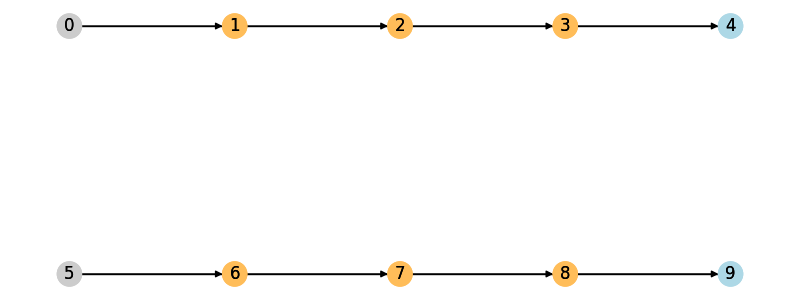
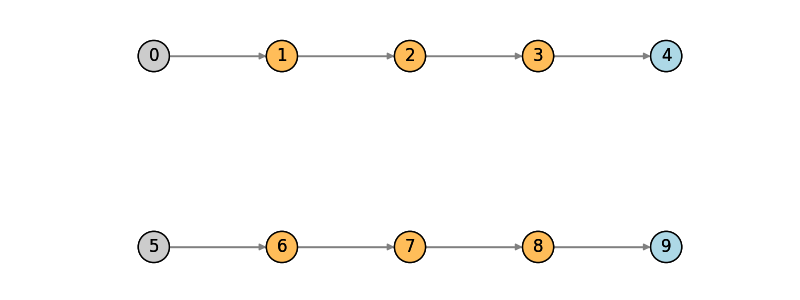
update draw function

Changed region(s): [[0.0625, 0.03, 0.9375, 0.24], [0.0625, 0.75, 0.9375, 0.96]]

diff --git a/mentpy/states/mbqcstate.py b/mentpy/states/mbqcstate.py
@@ -8,6 +8,7 @@ from typing import Optional, List, Tuple, Callable, Union, Any
 import numpy as np
 import scipy as scp
 import networkx as nx
+import matplotlib.pyplot as plt
 
 from mentpy.states.graphstate import GraphState
 from mentpy.states.flow import find_gflow, find_cflow, find_flow, check_if_flow
@@ -17,8 +18,9 @@ __all__ = ["MBQCState", "draw", "merge", "hstack", "vstack"]
 
 class MBQCState:
     r"""The MBQCGraph class that deals with operations and manipulations of graph states
-    Args
-    ----
+
+    Parameters
+    ----------
     graph: mp.GraphState
         The graph state of the MBQC state.
     input_nodes: list
@@ -359,17 +361,34 @@ def draw(state: Union[MBQCState, GraphState], fix_wires=None, **kwargs):
             node_colors[i] = "#FFBD59"
 
     # options = {'node_color': '#FFBD59'}
-    options = {"node_color": [node_colors[node] for node in state.graph.nodes()]}
+    options = {"node_color": [node_colors[node] for node in state.graph.nodes()],
+               "font_family": "Dejavu Sans",
+                "font_weight": "medium",
+                "edgecolors": "k",
+                "node_size": 500,
+                "edge_color":'grey',
+                "with_labels": True,
+                "transparent": False,
+                "figsize": (8, 3),
+              }
+    
     options.update(kwargs)
 
+    transp = options.pop("transparent")
+    fig, ax = plt.subplots(figsize=options.pop("figsize"))
+
+    if transp:
+        fig.patch.set_alpha(0)
+        ax.patch.set_alpha(0)
+
     if isinstance(state, GraphState):
-        nx.draw(state, **options)
+        nx.draw(state, ax=ax, **options)
 
     elif isinstance(state, MBQCState):
         fixed_nodes = state.input_nodes + state.output_nodes
         position_xy = {}
         for indx, p in enumerate(state.input_nodes):
-            position_xy[p] = (0, -2 * indx)
+            position_xy[p] = (0, -1 * indx)
 
         separation = len(state.outputc) // len(state.output_nodes)
         if fix_wires is not None:
@@ -377,7 +396,7 @@ def draw(state: Union[MBQCState, GraphState], fix_wires=None, **kwargs):
                 if len(wire) + 2 > separation:
                     separation = len(wire) + 2
         for indx, p in enumerate(state.output_nodes):
-            position_xy[p] = (2 * (separation) - 2, -2 * indx)
+            position_xy[p] = (2 * (separation) - 2, -1 * indx)
 
         if fix_wires is not None:
             x = [list(x) for x in fix_wires]
@@ -387,7 +406,7 @@ def draw(state: Union[MBQCState, GraphState], fix_wires=None, **kwargs):
             for indw, wire in enumerate(fix_wires):
                 for indx, p in enumerate(wire):
                     if p != "*":
-                        position_xy[p] = (2 * (indx + 1), -2 * indw)
+                        position_xy[p] = (2 * (indx + 1), -1 * indw)
 
         # remove all '*' from fixed_nodes
         fixed_nodes = [x for x in fixed_nodes if x != "*"]
@@ -395,9 +414,10 @@ def draw(state: Union[MBQCState, GraphState], fix_wires=None, **kwargs):
         node_pos = nx.spring_layout(
             state.graph, pos=position_xy, fixed=fixed_nodes, k=1 / len(state.graph)
         )
-        nx.draw(state.graph, pos=node_pos, **options)
+        nx.draw(state.graph, ax=ax, pos=node_pos, **options)
         if state.flow is not None:
-            nx.draw(_graph_with_flow(state), pos=node_pos, **options)
+            nx.draw(_graph_with_flow(state), pos=node_pos, ax=ax, **options)
+        
 
 
 def _graph_with_flow(state):

diff --git a/mentpy/states/templates.py b/mentpy/states/templates.py
@@ -9,11 +9,10 @@ from typing import List
 from mentpy.states.graphstate import GraphState
 from mentpy.states.mbqcstate import MBQCState, hstack
 
-__all__ = ["linear_cluster", "many_wires"]
-
 
 def linear_cluster(n) -> MBQCState:
     r"""Returns a linear cluster state of n qubits.
+
     Args
     ----
     n: int
@@ -26,14 +25,16 @@ def linear_cluster(n) -> MBQCState:
     Examples
     --------
     Create a 1D cluster state :math:`|G>` of five qubits
+
     .. ipython:: python
 
         g = mp.templates.linear_cluster(5)
-        print(g)
+        @savefig linear_cluster.png width=1000px
+        mp.draw(g, transparent=True, fix_wires=[(0,1,2,3,4)])
 
     Group
     -----
-    states
+    templates
     """
     g = GraphState()
     g.add_edges_from([(i, i + 1) for i in range(n - 1)])
@@ -43,6 +44,7 @@ def linear_cluster(n) -> MBQCState:
 
 def many_wires(n_wires: List) -> MBQCState:
     r"""Returns a graph state with many wires.
+
     Args
     ----
     n_wires: List
@@ -55,14 +57,16 @@ def many_wires(n_wires: List) -> MBQCState:
     Examples
     --------
     Create a graph state with three wires of 2, 3, and 4 qubits respectively
+
     .. ipython:: python
 
         g = mp.templates.many_wires([2, 3, 4])
-        print(g)
+        @savefig many_wires.png width=1000px
+        mp.draw(g, transparent=True, fix_wires=[(0,1), (2,3,4), (5,6,7,8)])
 
     Group
     -----
-    states
+    templates
     """
     # require n_wires to be a list of integers greater than 1
     if not all([isinstance(n, int) and n > 1 for n in n_wires]):
@@ -85,6 +89,7 @@ def many_wires(n_wires: List) -> MBQCState:
 
 def grid_cluster(n, m) -> MBQCState:
     r"""Returns a grid cluster state of n x m qubits.
+
     Args
     ----
     n: int
@@ -103,23 +108,24 @@ def grid_cluster(n, m) -> MBQCState:
     .. ipython:: python
 
         g = mp.templates.grid_cluster(2, 3)
-        print(g)
+        @savefig grid_cluster.png width=1000px
+        mp.draw(g, transparent=True, fix_wires=[(0,1,2), (3,4,5)])
 
     Group
     -----
-    states
+    templates
     """
     g = GraphState()
     # add edges between rows
-    n_wires = [n] * m
-    for i, n in enumerate(n_wires):
+    n_wires = [m] * n
+    for i, m in enumerate(n_wires):
         g.add_edges_from(
-            [(j + sum(n_wires[:i]), j + sum(n_wires[:i]) + 1) for j in range(n - 1)]
+            [(j + sum(n_wires[:i]), j + sum(n_wires[:i]) + 1) for j in range(m - 1)]
         )
 
     # add edges between columns
-    for i in range(m - 1):
-        g.add_edges_from([(i * n + j, (i + 1) * n + j) for j in range(n)])
+    for i in range(n - 1):
+        g.add_edges_from([(i * m + j, (i + 1) * m + j) for j in range(m)])
 
     gs = MBQCState(
         g,
@@ -130,7 +136,23 @@ def grid_cluster(n, m) -> MBQCState:
 
 
 def muta(n_wires, n_layers):
-    """This is the Multiple Triangle Ansatz (MuTA) template."""
+    """This is the Multiple Triangle Ansatz (MuTA) template.
+    
+    Args
+    ----
+    n_wires: int
+        The number of wires in the graph state.
+    n_layers: int
+        The number of layers in the graph state.
+    
+    Returns
+    -------
+    The graph state with the MuTA template.
+
+    Group
+    -----
+    templates
+    """
 
     SIZE_TRIANGLE = 4
 

diff --git a/mentpy/simulators/base_simulator.py b/mentpy/simulators/base_simulator.py
@@ -59,8 +59,8 @@ class BaseSimulator(abc.ABC):
     def measure(self, angle: float, plane: str = "XY", **kwargs):
         """Measures the state of the system.
 
-        Args
-        ----
+        Parameters
+        ----------
         angle: float
             The angle of measurement.
         plane: str
@@ -74,8 +74,8 @@ class BaseSimulator(abc.ABC):
     ) -> Tuple[List[int], np.ndarray]:
         """Measures the state of the system.
 
-        Args
-        ----
+        Parameters
+        ----------
         angles: List[float]
             The angles of measurement.
         planes: List[str]

diff --git a/mentpy/operators/pauliop.py b/mentpy/operators/pauliop.py
@@ -10,8 +10,8 @@ GF = galois.GF(2)
 class PauliOp:
     """Class for representing Pauli operators as matrices and strings.
 
-    Args
-    ----
+    Parameters
+    ----------
     op: Union[np.ndarray, str, List[str]]
         The Pauli operator to be represented. Can be a matrix, a string, or a list of strings.
 
@@ -164,8 +164,8 @@ class PauliOp:
     def get_subset(self, indices):
         """Returns a subset of the Pauli operator.
 
-        Args
-        ----
+        Parameters
+        ----------
         indices: List[int]
             The indices of the Pauli operators to be returned.
 

diff --git a/mentpy/simulators/cirq_simulators.py b/mentpy/simulators/cirq_simulators.py
@@ -11,8 +11,8 @@ class CirqSimulator(BaseSimulator):
     ----
     This is a placeholder for the Cirq simulator. It is not yet implemented.
 
-    Args
-    ----
+    Parameters
+    ----------
     mbqcstate: mp.MBQCState
         The MBQC state used for the simulation.
     simulator: str

diff --git a/mentpy/simulators/pattern_simulator.py b/mentpy/simulators/pattern_simulator.py
@@ -12,8 +12,8 @@ __all__ = ["PatternSimulator"]
 class PatternSimulator:
     """Simulator for measuring patterns of MBQC states.
 
-    Args
-    ----
+    Parameters
+    ----------
     mbqcstate: mp.MBQCState
         The MBQC state used for the simulation.
     simulator: str

diff --git a/docs/tutorials/intro-to-mbqc.rst b/docs/tutorials/intro-to-mbqc.rst
@@ -1,10 +1,6 @@
 An introduction to MBQC
 ========================
 
-.. admonition:: Note
-   :class: warning
-   
-   This tutorial is under construction
 
 Measurement-based quantum computation is a paradigm of quantum computation that uses 
 single qubit measurements to perform universal quantum computation. It is equivalent to 
@@ -18,7 +14,7 @@ In :obj:`mentpy` we can simulate an MBQC circuit by using the :obj:`MBQCCircuit`
 
     gs = mp.GraphState()
     gs.add_edges_from([(0, 1), (1, 2), (2, 3), (3, 4)])
-    mbcirc = mp.MBQCState(gs, input_nodes = [0], output_nodes =[4])
+    mbcirc = mp.MBQCState(gs, input_nodes=[0], output_nodes=[4])
     print(mbcirc)
 
 We can concatenate two MBQC circuits with the :func:`merge`, :func:`hstack`, or :func:`vstack`
@@ -30,25 +26,33 @@ functions.
         .. ipython:: python
 
             new_circ = mp.merge(mbcirc, mbcirc, along=[(4,0)])  # specify nodes to merge
-            plt.figure(figsize=(8,2));
-            @savefig merge_mbqc.png width=4in
-            mp.draw(new_circ, with_labels = True, fix_wires = [tuple(range(10))])
+            @savefig merge_mbqc.png width=1000px
+            mp.draw(new_circ, transparent=True, fix_wires=[tuple(range(10))])
     
     .. md-tab-item:: hstack
             
         .. ipython:: python
 
             new_circ = mp.hstack((mbcirc, mbcirc))
-            plt.figure(figsize=(8,2));
-            @savefig hstack_mbqc.png width=4in
-            mp.draw(new_circ, with_labels = True, fix_wires = [tuple(range(10))])
+            @savefig hstack_mbqc.png width=1000px
+            mp.draw(new_circ, transparent=True, fix_wires=[tuple(range(10))])
         
     .. md-tab-item:: vstack
 
         .. ipython:: python
 
             new_circ = mp.vstack((mbcirc, mbcirc))
-            plt.figure(figsize=(8,3));
-            @savefig vstack_mbqc.png width=4in
-            mp.draw(new_circ, with_labels = True, fix_wires = [(0,1,2,3,4), (5,6,7,8,9)])
+            @savefig vstack_mbqc.png width=1000px
+            mp.draw(new_circ, transparent=True, fix_wires=[(0,1,2,3,4), (5,6,7,8,9)])
 
+To use pre-defined MBQC circuits, we can use the :obj:`templates` module. 
+
+.. ipython:: python
+
+    grid_cluster = mp.templates.grid_cluster(3, 5)
+    linear_cluster = mp.templates.linear_cluster(4)
+    grid_and_linear = mp.merge(grid_cluster, linear_cluster, along=[(9,0)])
+    node_wires = [(0,1,2,3,4), (5,6,7,8,9,15,16,17,18), (10,11,12,13,14)]
+    @savefig template_merge.png width=1000px
+    mp.draw(grid_and_linear, transparent=True, fix_wires=node_wires)
+    

diff --git a/docs/api.rst b/docs/api.rst
@@ -12,6 +12,7 @@ Operators
 
 .. automodule:: mentpy.operators
     :members:
+    :undoc-members:
 
 
 States
@@ -21,6 +22,7 @@ States
 
 .. automodule:: mentpy.states
     :members:
+    :undoc-members:
 
 Simulators
 ------------
@@ -29,6 +31,7 @@ Simulators
 
 .. automodule:: mentpy.simulators
     :members:
+    :undoc-members:
 
 Optimizers
 ----------
@@ -36,6 +39,15 @@ Optimizers
 .. python-apigen-group:: optimizers
 
 .. automodule:: mentpy.optimizers
+    :members:
+    :undoc-members:
+
+Templates
+---------
+
+.. python-apigen-group:: templates
+
+.. automodule:: mentpy.templates
     :members:
     :undoc-members:
 
